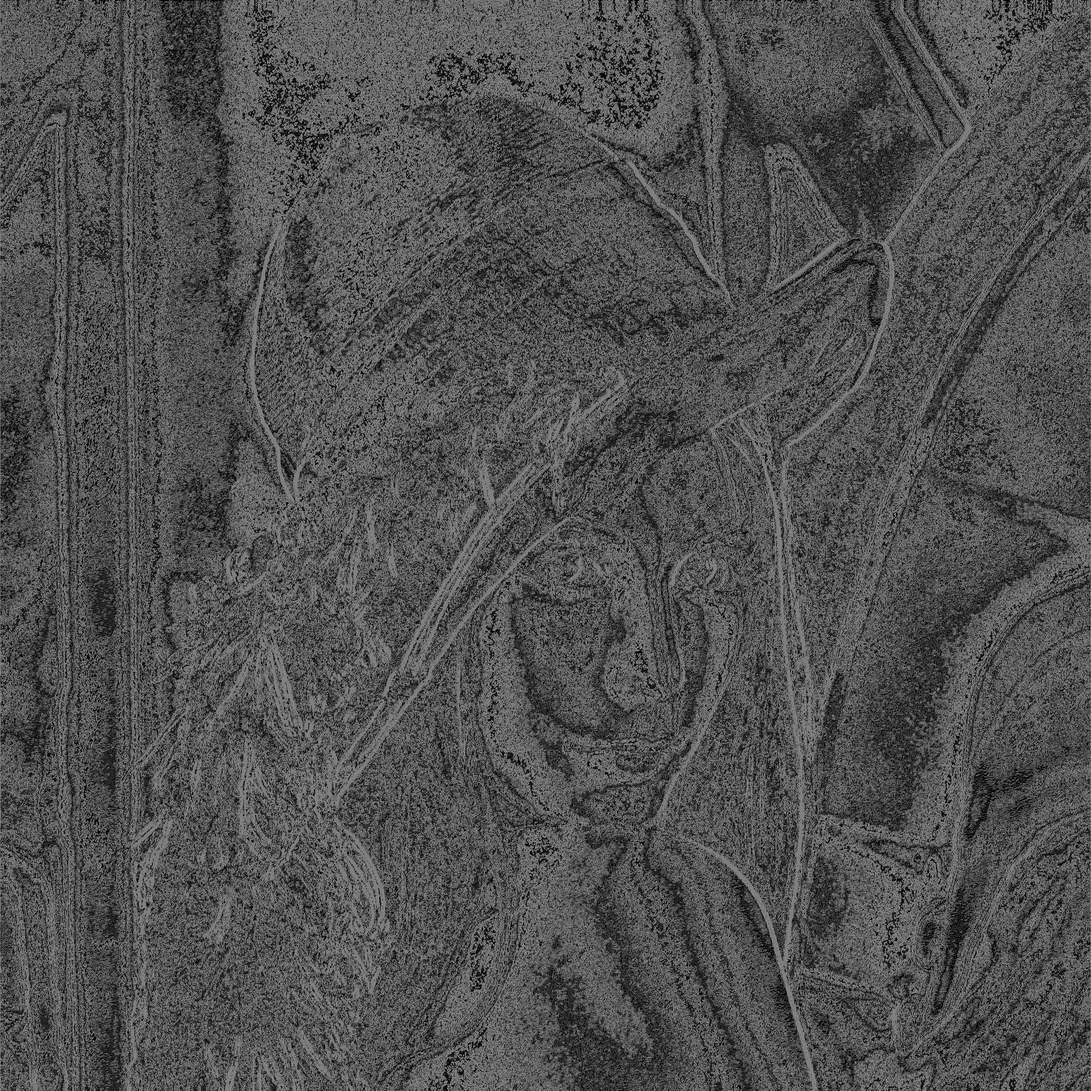
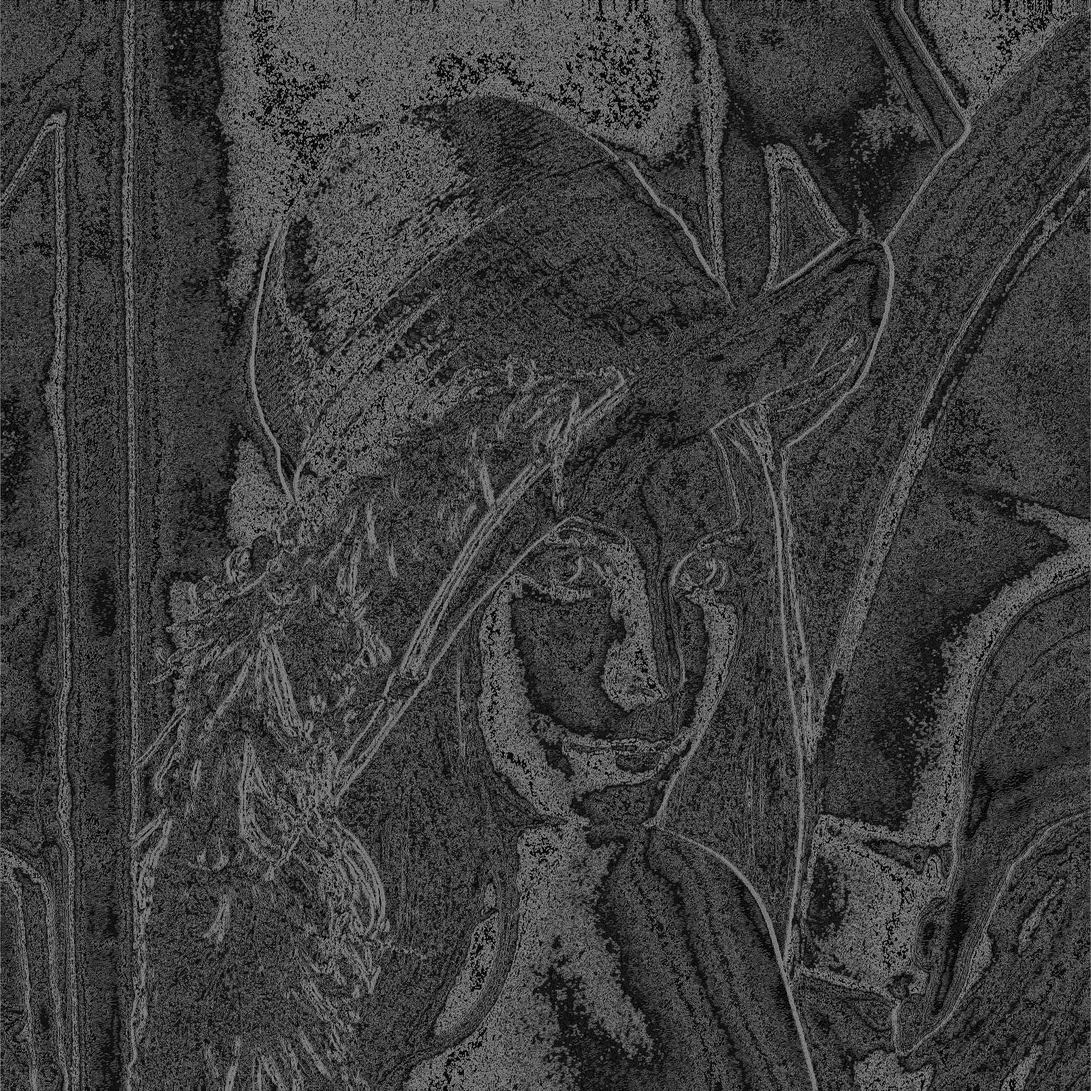
edgetpu tiling OK

diff --git a/samples/0_Simple/GPGTPU_conv_blocking/matrixMulCUBLAS.cpp b/samples/0_Simple/GPGTPU_conv_blocking/matrixMulCUBLAS.cpp
@@ -83,8 +83,10 @@
 
 using namespace cv;
 
-Mat* crops;
-Mat* out_pars;
+Mat* in_pars;
+Mat* CPU_out_pars;
+Mat* TPU_out_pars;
+Mat* MIX_out_pars;
 
 #ifndef get_time_ms
 #define get_time_ms(_end, _start) (std::chrono::duration_cast<std::chrono::nanoseconds>(_end - _start).count()/1000000.0)
@@ -529,7 +531,7 @@ float conv_CPU(int nIter, sMatrixSize matrix_size, const float alpha, Mat& img, 
     Mat grad_x, grad_y;
     Mat abs_grad_x, abs_grad_y;
     
-    int ddepth = CV_32F; // CV_8U, CV_16S, CV_16U, CV_32F, CV_64F
+    int ddepth = CV_8U; // CV_8U, CV_16S, CV_16U, CV_32F, CV_64F
     Sobel(img, grad_x, ddepth, 1, 0, 3/*ksize*/, 1/*scale*/, 0/*delta*/, BORDER_CONSTANT);
     Sobel(img, grad_y, ddepth, 0, 1, 3/*ksize*/, 1/*scale*/, 0/*delta*/, BORDER_CONSTANT);
 
@@ -542,7 +544,7 @@ float conv_CPU(int nIter, sMatrixSize matrix_size, const float alpha, Mat& img, 
     return 0;
 }
 
-void reverse_crop(sMatrixSize matrix_size, Mat& out_img, float* h_C, float** h_C_partial){
+void reverse_crop(sMatrixSize matrix_size, Mat& out_img, float* h_C, float** h_C_partial, std::string partition_mode){
 //    for(int i = 0 ; i < matrix_size.OUT_W_BLK_CNT ; i++){
 //        for(int j = 0 ; j < matrix_size.OUT_H_BLK_CNT ; j++){
 //            int idx = i*(matrix_size.OUT_H_BLK_CNT)+j;
@@ -554,9 +556,24 @@ void reverse_crop(sMatrixSize matrix_size, Mat& out_img, float* h_C, float** h_C
 //            }
 //        }
 //    }
+
+    Mat* tmp;
+    if(partition_mode == "CPU"){
+        tmp = CPU_out_pars;
+    }else if(partition_mode == "TPU"){
+        tmp = TPU_out_pars;
+    }else if(partition_mode == "MIX"){
+        tmp = MIX_out_pars;
+    }else{
+        std::cout << "unknown parition mode given to reverse_crop " << partition_mode << std::endl;
+        exit(0);
+    }
+    std::cout << "reverse cropping..." << std::endl;
     for(int i = 0 ; i < matrix_size.OUT_W_BLK_CNT ; i++){
         for(int j = 0 ; j < matrix_size.OUT_H_BLK_CNT ; j++){
-            out_pars[i*matrix_size.OUT_H_BLK_CNT+j].copyTo(out_img(Rect(i*matrix_size.OUT_BLK_W, j*matrix_size.OUT_BLK_H, matrix_size.OUT_BLK_W, matrix_size.OUT_BLK_H)));
+            Rect roi(i*matrix_size.OUT_BLK_W, j*matrix_size.OUT_BLK_H, matrix_size.OUT_BLK_W, matrix_size.OUT_BLK_H);
+            std::cout << roi << std::endl;
+            tmp[i*matrix_size.OUT_H_BLK_CNT+j].copyTo(out_img(roi));
         }
     }    
 }
@@ -566,16 +583,16 @@ float conv_CPU_TILES(int nIter, sMatrixSize matrix_size, const float alpha, floa
     for(int i = 0 ; i < matrix_size.OUT_W_BLK_CNT ; i++){
         for(int j = 0 ; j < matrix_size.OUT_H_BLK_CNT ; j++){
             int idx = i*(matrix_size.OUT_H_BLK_CNT)+j;
-            conv_CPU(nIter, matrix_size, alpha, crops[idx], h_partial_in[idx], h_filter, beta, out_pars[idx], h_C_partial[idx]);
+            conv_CPU(nIter, matrix_size, alpha, in_pars[idx], h_partial_in[idx], h_filter, beta, CPU_out_pars[idx], h_C_partial[idx]);
         }
     }
     // combine partial to one
-    reverse_crop(matrix_size, out_img, h_C, h_C_partial);
+    reverse_crop(matrix_size, out_img, h_C, h_C_partial, "CPU");
     Mat2array(out_img, h_C);
     return 0;
 }
 
-float conv_TPU(int nIter, int argc, char** argv, int in_w, int in_h, int out_w, int out_h, float* h_in, float* h_filter, float* h_TPU){
+float conv_TPU(int nIter, int argc, char** argv, int in_w, int in_h, int out_w, int out_h, float* h_in, float* h_filter, Mat& out_img, float* h_TPU){
 	printf("calling conv_TPU...\n");
     
     int in_size  =  in_w *  in_h;
@@ -612,7 +629,6 @@ float conv_TPU(int nIter, int argc, char** argv, int in_w, int in_h, int out_w, 
     convertScaleAbs(grad_x, abs_grad_x);
     convertScaleAbs(grad_y, abs_grad_y);
 
-    Mat out_img;
     addWeighted(abs_grad_x, 0.5, abs_grad_y, 0.5, 0, out_img);
     Mat2array(out_img, h_TPU);
 }
@@ -665,16 +681,19 @@ float get_dist_similarity(float* in, int m, int n, int ldn){
         return entropy*(-1);
 }
 
-float conv_TPU_TILES(int nIter, int argc, char** argv, sMatrixSize matrix_size, float* h_in, float* h_filter, float* h_TPU, float** h_partial_c){
+float conv_TPU_TILES(int nIter, int argc, char** argv, sMatrixSize matrix_size, float** h_partial_in, float* h_filter, Mat& out_img, float* h_TPU, float** h_partial_c){
 	printf("calling conv_TPU_TILES...\n");
     for(int i = 0 ; i < matrix_size.OUT_W_BLK_CNT ; i++){
         for(int j = 0 ; j < matrix_size.OUT_H_BLK_CNT ; j++){
             int idx = i*(matrix_size.OUT_H_BLK_CNT)+j;
-            //conv_CPU(nIter, matrix_size, alpha, crops[idx], h_partial_in[idx], h_filter, beta, h_C_partial[idx]);
+            std::cout << "i: " << i << ", j: " << j << std::endl;
+        	conv_TPU(nIter, argc, argv, matrix_size.IN_BLK_W, matrix_size.IN_BLK_H, matrix_size.OUT_BLK_W, matrix_size.OUT_BLK_H, h_partial_in[idx], h_filter, TPU_out_pars[idx], h_partial_c[idx]);
+            //conv_CPU(nIter, matrix_size, alpha, in_pars[idx], h_partial_in[idx], h_filter, beta, h_C_partial[idx]);
         }
     }
     // combine partial to one
-    //reverse_crop(matrix_size, h_C, h_C_partial);
+    reverse_crop(matrix_size, out_img, h_TPU, h_partial_c, "TPU");
+    Mat2array(out_img, h_TPU);
     return 0;
 	
 //	int m     = matrix_size.uiHA;
@@ -1130,12 +1149,12 @@ float run_conv(int _mode, int argc, char** argv, int nIter, sMatrixSize matrix_s
     }else if(_mode == 1){ // CPU tiling algorithm mode
 		kernel_ms = conv_CPU_TILES(nIter, matrix_size, alpha, h_partial_in, h_filter, beta, out_img, h_C, h_partial_C);
 	}else if(_mode == 2){ // TPU mode
-        	kernel_ms = conv_TPU(nIter, argc, argv, matrix_size.IN_W, matrix_size.IN_H, matrix_size.OUT_W, matrix_size.OUT_H, h_in, h_filter, h_C);
+        kernel_ms = conv_TPU(nIter, argc, argv, matrix_size.IN_W, matrix_size.IN_H, matrix_size.OUT_W, matrix_size.OUT_H, h_in, h_filter, out_img, h_C);
 	}else if(_mode == 3){ // TPU tiling algorithm mode
-        	kernel_ms = conv_TPU_TILES(nIter, argc, argv, matrix_size, h_in, h_filter, h_C, h_partial_C);
+        kernel_ms = conv_TPU_TILES(nIter, argc, argv, matrix_size, h_partial_in, h_filter, out_img, h_C, h_partial_C);
 	}else if(_mode == 4){ // mix tiling algorithm mode
 		assign_mix_p(argc, argv);
-        	kernel_ms = conv_MIX_TILES(nIter, argc, argv, matrix_size, h_in, h_filter, h_C, alpha, beta);
+        kernel_ms = conv_MIX_TILES(nIter, argc, argv, matrix_size, h_in, h_filter, h_C, alpha, beta);
 	}else if(_mode == -1){ // skip
 		printf("skip, no run\n");
 	}else{
@@ -1263,14 +1282,17 @@ int conv(int argc, char **argv, sMatrixSize &matrix_size)
     read_img(file_name, matrix_size, img);
     Mat2array(img, h_in);
     
-    //crops = (Mat*) malloc(matrix_size.OUT_W_BLK_CNT * matrix_size.OUT_H_BLK_CNT * sizeof(Mat));
-    crops = new Mat[matrix_size.OUT_W_BLK_CNT * matrix_size.OUT_H_BLK_CNT];
-    out_pars = new Mat[matrix_size.OUT_W_BLK_CNT * matrix_size.OUT_H_BLK_CNT];
+    //in_pars = (Mat*) malloc(matrix_size.OUT_W_BLK_CNT * matrix_size.OUT_H_BLK_CNT * sizeof(Mat));
+    in_pars = new Mat[matrix_size.OUT_W_BLK_CNT * matrix_size.OUT_H_BLK_CNT];
+    CPU_out_pars = new Mat[matrix_size.OUT_W_BLK_CNT * matrix_size.OUT_H_BLK_CNT];
+    TPU_out_pars = new Mat[matrix_size.OUT_W_BLK_CNT * matrix_size.OUT_H_BLK_CNT];
+    MIX_out_pars = new Mat[matrix_size.OUT_W_BLK_CNT * matrix_size.OUT_H_BLK_CNT];
+    
     for(int i = 0 ; i < matrix_size.OUT_W_BLK_CNT ; i++){
         for(int j = 0 ; j < matrix_size.OUT_H_BLK_CNT ; j++){
             int idx = i*matrix_size.OUT_H_BLK_CNT+j;
-            get_partitions(matrix_size, i, j, img, crops[idx]);
-            Mat2array(crops[idx], h_partial_in[idx]);
+            get_partitions(matrix_size, i, j, img, in_pars[idx]);
+            Mat2array(in_pars[idx], h_partial_in[idx]);
         }
     }
     int _mode;
